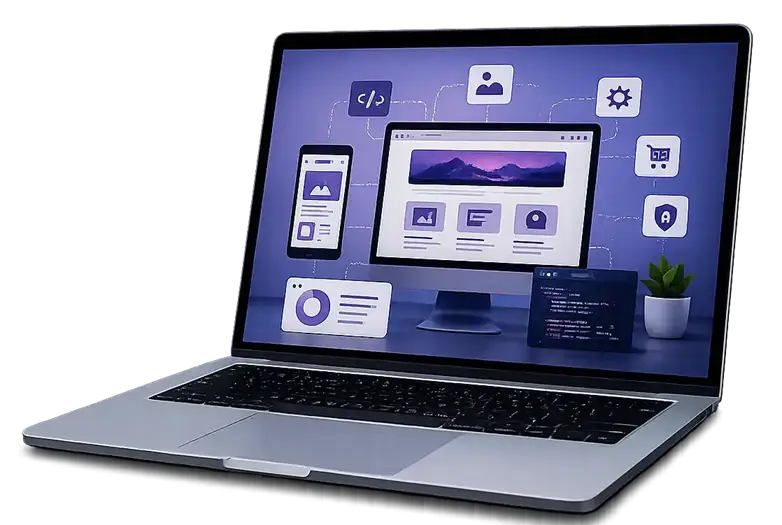
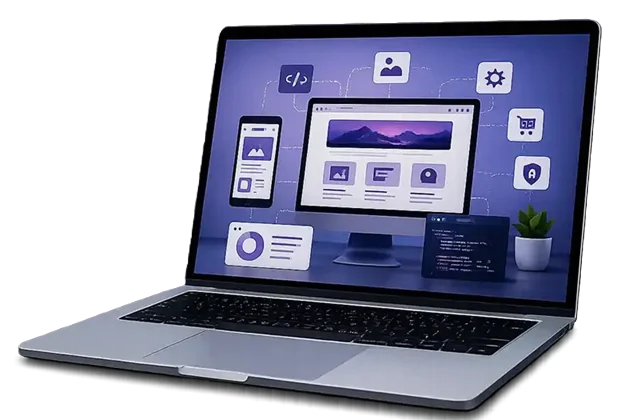
ok

diff --git a/src/pages/Home.tsx b/src/pages/Home.tsx
@@ -1025,12 +1025,11 @@ export default function Home() {
                     </p>
                   </div>
                   <div className="lg:col-span-5 relative flex items-center justify-center mt-4 sm:mt-0 mx-auto w-full">
-                    <div className="absolute w-[100%] h-[100%] bg-[#BAFC50]/25 rounded-full blur-[80px] pointer-events-none z-0" />
+                    <div className="absolute w-full h-full bg-[radial-gradient(circle_at_center,rgba(186,252,80,0.20)_0%,transparent_70%)] pointer-events-none z-0" />
                     <img 
                       src="/Iedod-savam-biznesam-jaunu-uzravienu.webp" 
                       alt="Mājaslapas izstrāde un izaugsme" 
-                      loading="lazy"
-                      fetchPriority="low"
+                      loading="eager"
                       decoding="async"
                       width={600}
                       height={380}
@@ -1044,12 +1043,11 @@ export default function Home() {
                   className="grid grid-cols-1 lg:grid-cols-12 gap-8 lg:gap-12 items-center py-2 md:py-4"
                 >
                   <div className="lg:col-span-5 order-last lg:order-first relative group flex items-center justify-center mx-auto w-full">
-                    <div className="absolute w-[100%] h-[100%] bg-[#BAFC50]/40 rounded-full blur-[80px] pointer-events-none z-0" />
+                    <div className="absolute w-full h-full bg-[radial-gradient(circle_at_center,rgba(186,252,80,0.25)_0%,transparent_70%)] pointer-events-none z-0" />
                     <img 
                       src="/dizains-mobile-first.webp" 
                       alt="Dizains un Mobile first" 
-                      loading="lazy"
-                      fetchPriority="low"
+                      loading="eager"
                       decoding="async"
                       width={600}
                       height={380}
@@ -1087,23 +1085,29 @@ export default function Home() {
                     </p>
                   </div>
                   <div className="lg:col-span-5 relative group flex items-center justify-center mx-auto w-full">
-                    <div className="absolute w-[100%] h-[100%] bg-[#BAFC50]/45 rounded-full blur-[80px] pointer-events-none z-0" />
+                    <div className="absolute w-full h-full bg-[radial-gradient(circle_at_center,rgba(186,252,80,0.25)_0%,transparent_70%)] pointer-events-none z-0" />
                     <img 
                       src="/Web-izstrades-agentura.webp" 
                       alt="Web izstrādes aģentūra — struktūra un rezultāts" 
-                      loading="lazy"
-                      fetchPriority="low"
+                      loading="eager"
                       decoding="async"
                       width={600}
-                      height={400}
-                      className="relative z-10 w-[88%] sm:w-auto h-auto max-h-[350px] object-contain drop-shadow-[0_20px_40px_rgba(0,0,0,0.8)] mx-auto"
+                      height={380}
+                      onError={(e) => {
+                        const target = e.currentTarget as HTMLImageElement;
+                        if (!target.dataset.fallbackTried) {
+                          target.dataset.fallbackTried = "true";
+                          target.src = "/web-izstrades-agentura.webp";
+                        }
+                      }}
+                      className="relative z-10 w-[88%] sm:w-auto h-auto max-h-[335px] object-contain drop-shadow-[0_20px_40px_rgba(0,0,0,0.8)] mx-auto"
                     />
                   </div>
                 </div>
 
                 {/* Closing quote / CTA block */}
                 <div 
-                  className="!mt-0 pt-0 text-center max-w-4xl mx-auto space-y-2 flex flex-col items-center"
+                  className="pt-8 sm:pt-12 md:pt-14 pb-2 text-center max-w-4xl mx-auto space-y-3 flex flex-col items-center"
                 >
                   <FreeConsultationAnimation className="mb-0" />
                   <div className="inline-flex items-center gap-1.5 px-3.5 py-1 rounded-full bg-[#BAFC50]/10 border border-[#BAFC50]/30 text-[#BAFC50] text-[11px] font-sans font-semibold tracking-wider uppercase mb-0">
@@ -1350,6 +1354,7 @@ export default function Home() {
                       isPlaceholder={item.isPlaceholder}
                       description={item.description}
                       tags={item.tags}
+                      hideStatusText={true}
                     />
                   </div>
                 ))}

diff --git a/src/components/PortfolioLaptopCard.tsx b/src/components/PortfolioLaptopCard.tsx
@@ -17,6 +17,7 @@ interface PortfolioLaptopCardProps {
   description?: string;
   tags?: string[];
   isInDevelopment?: boolean;
+  hideStatusText?: boolean;
 }
 
 export default function PortfolioLaptopCard({
@@ -29,6 +30,7 @@ export default function PortfolioLaptopCard({
   description,
   tags,
   isInDevelopment = false,
+  hideStatusText = false,
 }: PortfolioLaptopCardProps) {
   const { lang } = useLanguage();
   const navigate = useNavigate();
@@ -212,19 +214,21 @@ export default function PortfolioLaptopCard({
               </button>
 
               {/* Top-Right Corner: Project Status */}
-              <div className="flex items-center gap-1.5 text-xs font-mono shrink-0">
-                {isDevelopment && !isDemontaza ? (
-                  <>
-                    <Clock className="h-3.5 w-3.5 text-rose-400/80 shrink-0" />
-                    <span className="text-rose-300/90 font-medium select-text cursor-text whitespace-nowrap">{statusText}</span>
-                  </>
-                ) : (
-                  <>
-                    <ShieldCheck className="h-3.5 w-3.5 text-[#BAFC50] shrink-0" />
-                    <span className="text-zinc-300 font-medium select-text cursor-text whitespace-nowrap">{statusText}</span>
-                  </>
-                )}
-              </div>
+              {!hideStatusText && (
+                <div className="flex items-center gap-1.5 text-xs font-mono shrink-0">
+                  {isDevelopment && !isDemontaza ? (
+                    <>
+                      <Clock className="h-3.5 w-3.5 text-rose-400/80 shrink-0" />
+                      <span className="text-rose-300/90 font-medium select-text cursor-text whitespace-nowrap">{statusText}</span>
+                    </>
+                  ) : (
+                    <>
+                      <ShieldCheck className="h-3.5 w-3.5 text-[#BAFC50] shrink-0" />
+                      <span className="text-zinc-300 font-medium select-text cursor-text whitespace-nowrap">{statusText}</span>
+                    </>
+                  )}
+                </div>
+              )}
             </div>
 
             {/* Title - Fixed Height Block for 1 or 2 lines */}
@@ -248,8 +252,8 @@ export default function PortfolioLaptopCard({
             </div>
           </div>
 
-          {/* Deliverables Badges / Tags - Complete rows with fixed height */}
-          <div className="pt-3 border-t border-zinc-800/80 flex flex-wrap items-start content-start gap-1.5 sm:gap-2 h-[5.5rem] sm:h-[5.25rem] overflow-hidden pb-0.5">
+          {/* Deliverables Badges / Tags - Complete rows with flexible container height on mobile */}
+          <div className="pt-2.5 sm:pt-3 border-t border-zinc-800/80 flex flex-wrap items-start content-start gap-1.5 sm:gap-2 min-h-[6.25rem] sm:min-h-[5.25rem] pb-1">
             {activeTags.slice(0, 6).map((tag, idx) => (
               <span 
                 key={idx}
